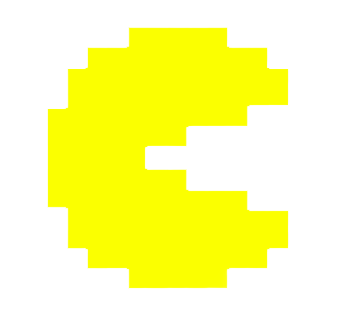
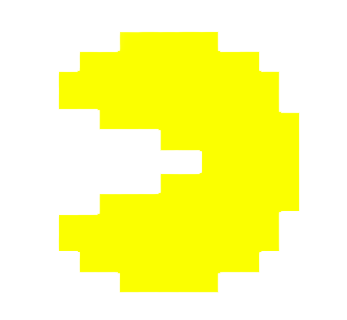
100%

Changed region(s): [[0.1153, 0.0625, 0.8646, 0.9375]]

diff --git a/PACMAN/Game.cpp b/PACMAN/Game.cpp
@@ -15,7 +15,9 @@ Game::Game(Menu menu):Window(sf::VideoMode(CELL*Width*Screen, CELL*Height*Screen
 	while (!menu.Get_Menu_End())
 		menu.Update(Window);
 
-	if (!Pacman_Texture.loadFromFile("pacman_body.png")) {}
+	float Score1_Scale = 0.075f, Score2_Scale = 0.19f, fruit1_Scale = 0.04f , PM_Scale = 0.065f;
+
+	if (!Pacman_Texture.loadFromFile("pacman_body2.png")) {}
 	Pacman_Sprite.setTexture(Pacman_Texture);
 	float Pacman_Scale = 0.085f;
 	Pacman_Sprite.setScale(Pacman_Scale, Pacman_Scale);
@@ -23,10 +25,12 @@ Game::Game(Menu menu):Window(sf::VideoMode(CELL*Width*Screen, CELL*Height*Screen
 	matrix[4][10] = "score1";
 	matrix[4][25] = "score2";
 	matrix[38][35] = "fruit1";
+	matrix[38][1] = "PM1";
+	matrix[38][4] = "PM2";
+	matrix[38][7] = "PM3";
 
 	if (!Score1_Texture.loadFromFile("score1.png")) {}
 	Score1_Sprite.setTexture(Score1_Texture);
-	float Score1_Scale = 0.075f , Score2_Scale = 0.19f , fruit1_Scale = 0.04f;
 	Score1_Sprite.setScale(Score1_Scale, Score1_Scale);
 
 	if (!Score2_Texture.loadFromFile("score2.png")) {}
@@ -36,6 +40,18 @@ Game::Game(Menu menu):Window(sf::VideoMode(CELL*Width*Screen, CELL*Height*Screen
 	if (!fruit1_Texture.loadFromFile("fruit1.png")) {}
 	fruit1_Sprite.setTexture(fruit1_Texture);
 	fruit1_Sprite.setScale(fruit1_Scale, fruit1_Scale);
+
+	if (!PM1_Texture.loadFromFile("pacman_body.png")) {}
+	PM1_Sprite.setTexture(PM1_Texture);
+	PM1_Sprite.setScale(PM_Scale, PM_Scale);
+
+	if (!PM2_Texture.loadFromFile("pacman_body.png")) {}
+	PM2_Sprite.setTexture(PM2_Texture);
+	PM2_Sprite.setScale(PM_Scale, PM_Scale);
+
+	if (!PM3_Texture.loadFromFile("pacman_body.png")) {}
+	PM3_Sprite.setTexture(PM3_Texture);
+	PM3_Sprite.setScale(PM_Scale, PM_Scale);
 
 	for (int height = 0; height < Height; ++height)
 	{
@@ -56,18 +72,39 @@ Game::Game(Menu menu):Window(sf::VideoMode(CELL*Width*Screen, CELL*Height*Screen
 				matrix[height][width] = "#";
 	}
 	
+
 	matrix[9][4] = matrix[9][5] = matrix[9][6] = matrix[9][7] = matrix[9][8] = matrix[10][4] = matrix[11][4] = matrix[11][5] = matrix[11][6] = matrix[11][7] = matrix[11][8] = matrix[10][8] = "#";
-	
+	matrix[9][37] = matrix[9][36] = matrix[9][35] = matrix[9][34] = matrix[9][33] = matrix[10][37] = matrix[10][33] = matrix[11][37] = matrix[11][36] = matrix[11][35] = matrix[11][34] = matrix[11][33] = "#";
+
 	matrix[6][20] = matrix[7][20] = matrix[8][20] = matrix[9][20] = matrix[10][20] = matrix[11][20] = matrix[6][21] = matrix[7][21] = matrix[8][21] = matrix[9][21] = matrix[10][21] = matrix[11][21] = "#";
 
 	matrix[9][12] = matrix[9][13] = matrix[9][14] = matrix[9][15] = matrix[9][16]  = matrix[10][12] = matrix[10][16] = matrix[11][12] = matrix[11][13] = matrix[11][14] = matrix[11][15] = matrix[11][16] = "#";
+	matrix[9][29] = matrix[9][28] = matrix[9][27] = matrix[9][26] = matrix[9][25] = matrix[10][25] = matrix[10][29] = matrix[11][29] = matrix[11][28] = matrix[11][27] = matrix[11][26] = matrix[11][25] = "#";
 
 	matrix[15][4] = matrix[15][5] = matrix[15][6] = matrix[15][7] = matrix[15][8] = matrix[16][4] = matrix[16][5] = matrix[16][6] = matrix[16][7] = matrix[16][8] = "#";
+	matrix[15][37] = matrix[15][36] = matrix[15][35] = matrix[15][34] = matrix[15][33] = matrix[16][37] = matrix[16][36] = matrix[16][35] = matrix[16][34] = matrix[16][33] = "#";
+
 
 	matrix[20][1] = matrix[20][2] = matrix[20][3] = matrix[20][4] = matrix[20][5] = matrix[20][6] = matrix[20][7] = matrix[20][8] = "#";
-	
-	matrix[24][1] = matrix[24][2] = matrix[24][3] = matrix[24][4] = matrix[24][5] = matrix[24][6] = matrix[24][7] = matrix[24][8] = "#";
+	matrix[20][41] = matrix[20][40] = matrix[20][39] = matrix[20][38] = matrix[20][37] = matrix[20][36] = matrix[20][35] = matrix[20][34] = matrix[20][33] = "#";
 
+	matrix[24][1] = matrix[24][2] = matrix[24][3] = matrix[24][4] = matrix[24][5] = matrix[24][6] = matrix[24][7] = matrix[24][8] = "#";
+	matrix[24][41] = matrix[24][40] = matrix[24][39] = matrix[24][38] = matrix[24][37] = matrix[24][36] = matrix[24][35] = matrix[24][34] = matrix[24][33] = "#";
+
+
+	matrix[21][0] = matrix[22][0] = matrix[23][0] = matrix[21][41] = matrix[22][41] = matrix[23][41] = "";
+
+	matrix[31][1] = matrix[31][2] = matrix[32][1] = matrix[32][2] = matrix[31][3] = matrix[32][3] = matrix[31][4] = matrix[32][4] = "#";
+	matrix[31][40] = matrix[31][39] = matrix[31][38] = matrix[31][37] = matrix[32][40] = matrix[32][39] = matrix[32][38] = matrix[32][37] = "#";
+
+	matrix[15][20] = matrix[16][20] = matrix[17][20] = matrix[18][20] = matrix[15][21] = matrix[16][21] = matrix[17][21] = matrix[18][21] = matrix[15][19] = matrix[15][18] = matrix[15][17] = matrix[15][16] = matrix[15][15] = matrix[16][19] = matrix[16][18] = matrix[16][17] = matrix[16][16] = matrix[16][15] = matrix[15][22] = matrix[15][23] = matrix[15][24] = matrix[15][25] = matrix[15][26] = matrix[16][22] = matrix[16][23] = matrix[16][24] = matrix[16][25] = matrix[16][26] = "#";
+
+	matrix[22][15] = matrix[22][16] = matrix[22][17] = matrix[22][18] = matrix[22][19] = matrix[22][20] = matrix[22][21] = matrix[22][22] = matrix[22][23] = matrix[22][24] = matrix[22][25] = matrix[22][26] = matrix[23][15] = matrix[24][15] = matrix[25][15] = matrix[23][26] = matrix[24][26] = matrix[25][26] = matrix[26][15] = matrix[26][16] = matrix[26][17] = matrix[26][18] = matrix[26][19] = matrix[26][20] = matrix[26][21] = matrix[26][22] = matrix[26][23] = matrix[26][24] = matrix[26][25] = matrix[26][26] = "#";
+
+	matrix[30][15] = matrix[30][16] = matrix[30][17] = matrix[30][18] = matrix[30][19] = matrix[30][20] = matrix[30][21] = matrix[30][22] = matrix[30][23] = matrix[30][24] = matrix[30][25] = matrix[30][26] = matrix[31][20] = matrix[31][21] = matrix[32][20] = matrix[32][21] = matrix[33][20] = matrix[33][21] = matrix[34][20] = matrix[34][21] = matrix[35][20] = matrix[35][21] = "#";
+ 
+	matrix[35][4] = matrix[35][5] = matrix[35][6] = matrix[35][7] = matrix[35][8] = matrix[35][9] = matrix[35][10] = matrix[35][11] = matrix[35][12] = matrix[35][13] = matrix[35][14] = matrix[35][15] = matrix[35][16] = matrix[34][11] = matrix[33][11] = matrix[32][11] = matrix[31][11] = matrix[30][11] = "#";
+	matrix[35][37] = matrix[35][36] = matrix[35][35] = matrix[35][34] = matrix[35][33] = matrix[35][32] = matrix[35][31] = matrix[35][30] = matrix[35][29] = matrix[35][28] = matrix[35][27] = matrix[35][26] = matrix[35][25] = matrix[34][30] = matrix[33][30] = matrix[32][30] = matrix[31][30] = matrix[30][30] = "#";
 
 	start = std::chrono::high_resolution_clock::now();
 
@@ -122,6 +159,21 @@ void Game::Render()
 			{
 				fruit1_Sprite.setPosition(width*CELL, height*CELL*1.1);
 				Window.draw(fruit1_Sprite);
+			}
+			else if (matrix[height][width] == "PM1" && pacman.Get_Lifes() >= 1)
+			{
+				PM1_Sprite.setPosition(width * CELL, height * CELL * 1.1);
+				Window.draw(PM1_Sprite);
+			}
+			else if (matrix[height][width] == "PM2" && pacman.Get_Lifes() >= 2)
+			{
+				PM2_Sprite.setPosition(width * CELL, height * CELL * 1.1);
+				Window.draw(PM2_Sprite);
+			}
+			else if (matrix[height][width] == "PM3" && pacman.Get_Lifes() == 3)
+			{
+				PM3_Sprite.setPosition(width * CELL, height * CELL * 1.1);
+				Window.draw(PM3_Sprite);
 			}
 		}
 	}

diff --git a/PACMAN/Game.hpp b/PACMAN/Game.hpp
@@ -25,8 +25,8 @@ private:
 	void Update();
 	void Process();
 	std::vector<std::vector<std::string>> matrix;
-	sf::Texture Pacman_Texture , Score1_Texture , Score2_Texture , fruit1_Texture;
-	sf::Sprite Pacman_Sprite , Score1_Sprite , Score2_Sprite , fruit1_Sprite;
+	sf::Texture Pacman_Texture , Score1_Texture , Score2_Texture , fruit1_Texture , PM1_Texture , PM2_Texture , PM3_Texture;
+	sf::Sprite Pacman_Sprite , Score1_Sprite , Score2_Sprite , fruit1_Sprite , PM1_Sprite , PM2_Sprite , PM3_Sprite;
 	Pacman pacman;
 	std::chrono::high_resolution_clock::time_point start, end;
 	std::chrono::milliseconds duration, duration0{ 0 };

diff --git a/PACMAN/PACMAN.cpp b/PACMAN/PACMAN.cpp
@@ -16,4 +16,9 @@ int& Pacman::Get_Y()
 	return this->y;
 }
 
+int& Pacman::Get_Lifes()
+{
+	return this->lifes;
+}
+
 Pacman::~Pacman(){}

diff --git a/PACMAN/Pacman.hpp b/PACMAN/Pacman.hpp
@@ -10,6 +10,7 @@ public:
 	~Pacman();
 	int& Get_X();
 	int& Get_Y();
+	int& Get_Lifes();
 private:
-	int x, y;
+	int x, y, lifes{3};
 };
